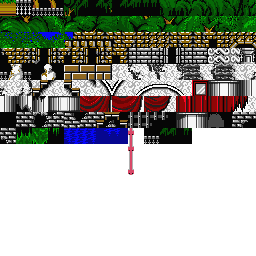
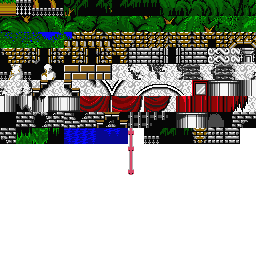
Adding level3 tile map, adding tiles and modifying title screen
Changes in:
- Scene.cpp (Level 3 added)
- TileMap.cpp & TileMap.h (New missing tiles added)
- Game.cpp (Parameters of the DrawTexturePro modified to center the title screen)

Changed region(s): [[0.25, 0.125, 1.0, 0.1875], [0.75, 0.5, 0.9375, 0.5625]]

diff --git a/src/Scene.cpp b/src/Scene.cpp
@@ -151,14 +151,7 @@ AppStatus Scene::LoadLevel(int stage)
 					pos.y = y * TILE_SIZE - (PLAYER_FRAME_SIZE - TILE_SIZE);
 					player->SetPos(pos);
 				}
-				//trying zombie out - It's not working
-
-				/*else if (tile == Tile::ZOMBIE)
-				{
-					pos.x = x * TILE_SIZE;
-					pos.y = y * TILE_SIZE - (ZOMBIE_FRAME_SIZE - TILE_SIZE);
-					zombie->SetPos(pos);
-				}*/
+				
 				++i;
 			}
 		}
@@ -167,7 +160,39 @@ AppStatus Scene::LoadLevel(int stage)
 	}
 	else if (stage == 3) 
 	{
+		size = LEVEL_WIDTH * LEVEL_HEIGHT;
+		int map[] = {
+				33,		34,		35,		36,		33,		34,		35,		36,		33,		34,		37,		38,		39,		38,		39,		38,
+				29,		30,		31,		32,		29,		30,		31,		32,		29,		30,		40,		41,		42,		42,		43,		44,
+				25,		26,		27,		28,		25,		26,		27,		28,		25,		26,		45,		46,		47,		48,		43,		49,
+				21,		22,		23,		24,		21,		22,		23,		24,		21,		22,		40,		50,		51,		113,	52,		84,
+				17,		18,		19,		20,		17,		18,		19,		20,		17,		18,		45,		53,		54,		113,	55,		56,
+				13,		14,		10,		9,		12,		14,		15,		16,		13,		14,		40,		50,		51,		113,	52,		84,
+				5,		6,		67,		68,		8,		7,		5,		7,		5,		7,		45,		53,		54,		113,	55,		56,
+				3,		100,	65,		66,		800,	81,		4,		81,		4,		81,		57,		58,		59,		113,	60,		61,
+				2,		2,		62,		63,		64,		2,		2,		2,		2,		2,		57,		85,		59,		113,	60,		86,
+				1,		1,		1,		1,		1,		1,		1,		1,		1,		1,		1,		1,		1,		1,		1,		1,
+				0,		0,		0,		0,		0,		0,		0,		0,		0,		0,		0,		0,		0,		0,		0,		0
+		};
+		//Entities
+		i = 0;
+		for (y = 0; y < LEVEL_HEIGHT; ++y)
+		{
+			for (x = 0; x < LEVEL_WIDTH; ++x)
+			{
+				tile = (Tile)map[i];
+				if (tile == Tile::PLAYER)
+				{
+					pos.x = x * TILE_SIZE;
+					pos.y = y * TILE_SIZE - (PLAYER_FRAME_SIZE - TILE_SIZE);
+					player->SetPos(pos);
+				}
 
+				++i;
+			}
+		}
+		//Tile map
+		level->Load(map, LEVEL_WIDTH, LEVEL_HEIGHT);
 	}
 	else
 	{

diff --git a/src/Game.cpp b/src/Game.cpp
@@ -130,7 +130,7 @@ void Game::Render()
             //DrawTexture(*img_menu, 0, 0, WHITE);
             // This draws the Vampire killer logo in the middle.
             // TODO: Change the numbers of the second curly braces to have divisions so that if you make the screen smaller, it will get smaller as well (not hard-coded)
-            DrawTexturePro(*img_menu, { 0, 8, 256,104 }, { 10,30,WINDOW_WIDTH-WINDOW_WIDTH/10,WINDOW_HEIGHT-WINDOW_HEIGHT/4 }, { 0,0 }, 0, WHITE);
+            DrawTexturePro(*img_menu, { 0, 8, 256,104 }, { 10,30,WINDOW_WIDTH-WINDOW_WIDTH/14,WINDOW_HEIGHT-WINDOW_HEIGHT/2 }, { 0,0 }, 0, WHITE);
 
             // This draws the Konami text
             DrawTexturePro(*img_menu, { 256, 16, 104,8 }, { WINDOW_WIDTH/3,WINDOW_HEIGHT - (WINDOW_HEIGHT / 3),104,8 }, { 0,0 }, 0, WHITE);

diff --git a/src/TileMap.cpp b/src/TileMap.cpp
@@ -121,6 +121,9 @@ void TileMap::InitTileDictionary()
 	dict_rect[(int)Tile::BLOCK_GATE_2] = { 9 * n, n * 8, n, n };
 	dict_rect[(int)Tile::BLOCK_TREE_33] = { 10 * n, n * 8, n, n };
 	dict_rect[(int)Tile::BLOCK_TREE_34] = { 11 * n, n * 8, n, n };
+	dict_rect[(int)Tile::BLOCK_WALL_OUTSIDE_8] = { 12 * n, n * 8, n, n };
+	dict_rect[(int)Tile::BLOCK_WALL_OUTSIDE_9] = { 13 * n, n * 8, n, n };
+	dict_rect[(int)Tile::BLOCK_WALL_OUTSIDE_10] = { 14 * n, n * 8, n, n };
 
 	dict_rect[(int)Tile::FIRE_FRAME0] = { n * 0, 4 * n, 2 * n, n };
 	dict_rect[(int)Tile::FIRE_FRAME1] = { n * 2, 4 * n, 2 * n, n };

diff --git a/src/TileMap.h b/src/TileMap.h
@@ -34,7 +34,7 @@ enum class Tile {
 	BLOCK_WHITE_WALL_DIRT_1, BLOCK_WHITE_WALL_DIRT_2, BLOCK_WHITE_WALL_DIRT_3, BLOCK_WHITE_WALL_DIRT_4,
 	BLOCK_WHITE_WALL_DIRT_5, BLOCK_WHITE_WALL_DIRT_6, BLOCK_WHITE_WALL_DIRT_7, BLOCK_WHITE_WALL_DIRT_8,
 
-	BLOCK_GATE_2, BLOCK_TREE_33, BLOCK_TREE_34,
+	BLOCK_GATE_2, BLOCK_TREE_33, BLOCK_TREE_34, BLOCK_WALL_OUTSIDE_8, BLOCK_WALL_OUTSIDE_9, BLOCK_WALL_OUTSIDE_10,
 
 	//TODO Add the rest of the blocks
 
